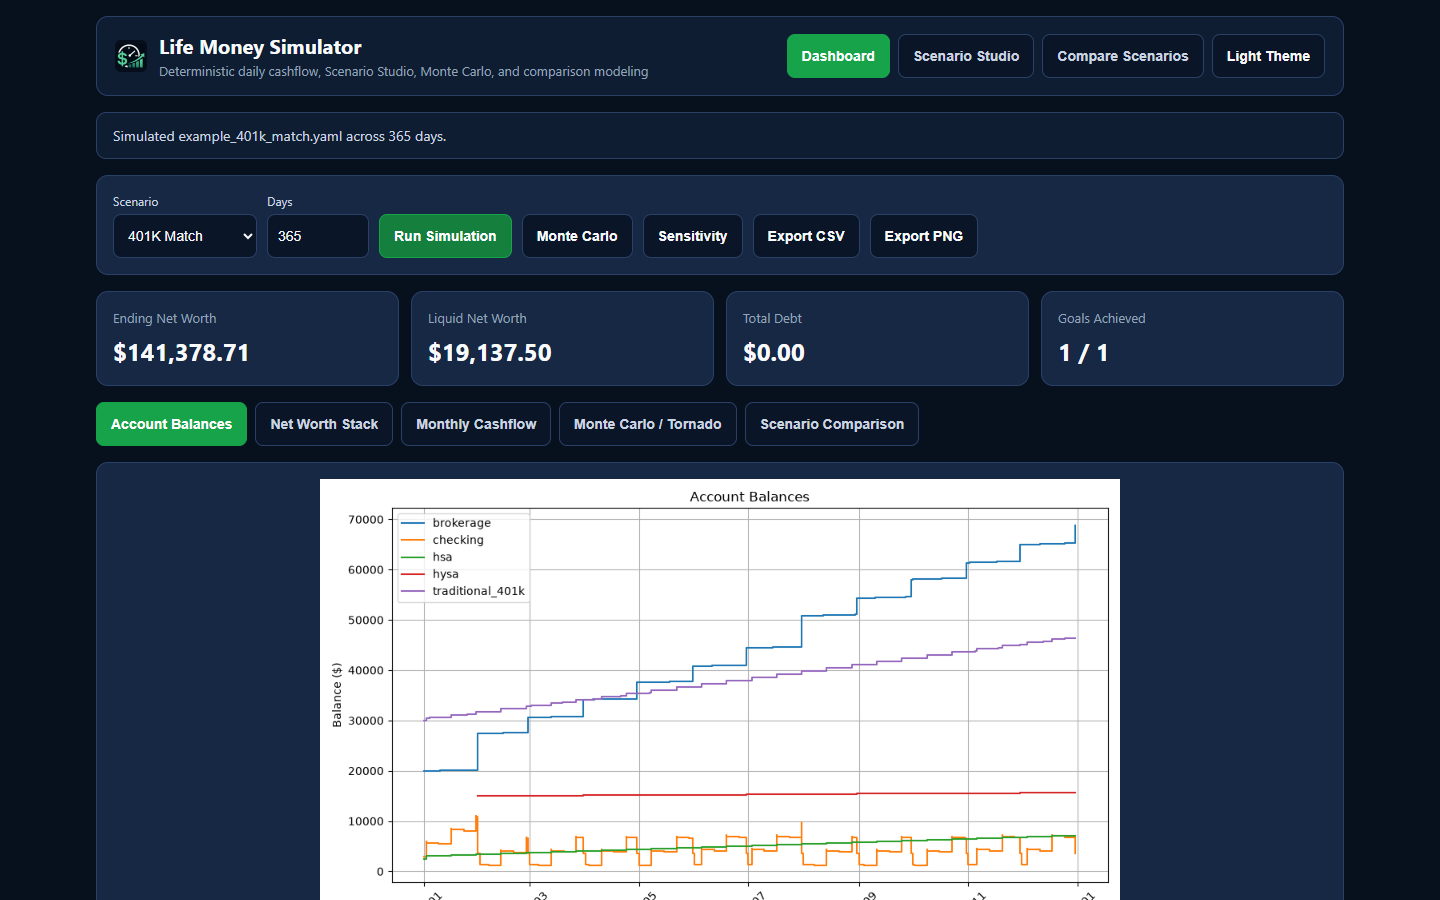
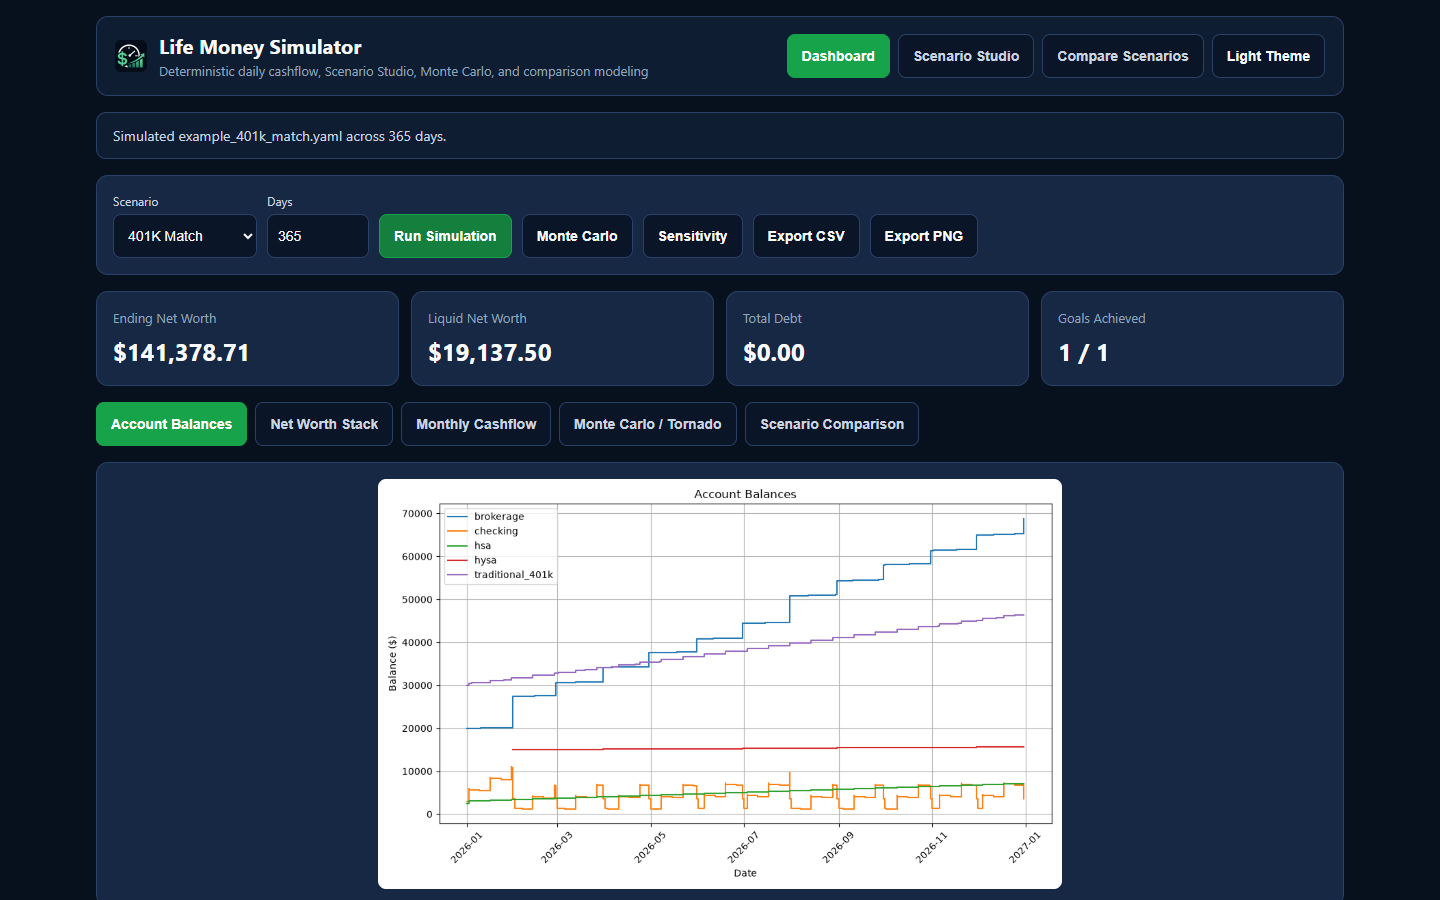
chore: trailing safety section, updated screenshots, and reliable CI screenshot sync

Changed region(s): [[0.2188, 0.5289, 0.7812, 1.0]]

diff --git a/lifesim/gui_static/styles.css b/lifesim/gui_static/styles.css
@@ -191,8 +191,10 @@ select:focus-visible {
 
 .chart-img {
   display: block;
-  width: 100%;
-  max-height: 480px;
+  width: auto;
+  max-width: 100%;
+  max-height: 410px;
+  margin: 0 auto;
   object-fit: contain;
   border-radius: 8px;
 }

diff --git a/scripts/capture_screenshots.py b/scripts/capture_screenshots.py
@@ -1,0 +1,94 @@
+"""Capture up-to-date screenshots and optional UI evidence for TimeIsMoneySim."""
+
+from __future__ import annotations
+
+import argparse
+from pathlib import Path
+import subprocess
+import sys
+import time
+from typing import Any
+
+from playwright.sync_api import sync_playwright
+
+REPO_DIR = Path(__file__).resolve().parent.parent
+
+
+def _launch_browser(pw: Any) -> Any:
+    """Launch headless Chromium first (Linux/CI), falling back to Edge channel if needed."""
+    try:
+        return pw.chromium.launch(headless=True)
+    except Exception:  # noqa: 10
+        return pw.chromium.launch(channel="msedge", headless=True)
+
+
+def capture_screenshots(out_dir: Path, python_exe: str | None = None) -> None:
+    """Boot headless loopback server and capture main Dashboard and Monte Carlo screenshots."""
+    out_resolved = out_dir.expanduser().resolve()
+    out_resolved.mkdir(parents=True, exist_ok=True)
+    shot_main = out_resolved / "01_main.png"
+    shot_analytics = out_resolved / "02_analytics.png"
+
+    proc = subprocess.Popen(
+        [python_exe or sys.executable, "-m", "lifesim.gui", "--headless-server", "0"],
+        cwd=str(REPO_DIR),
+        stdout=subprocess.PIPE,
+        stderr=subprocess.PIPE,
+        text=True,
+    )
+    try:
+        url = ""
+        deadline = time.monotonic() + 25.0
+        while time.monotonic() < deadline and proc.stdout is not None:
+            line = proc.stdout.readline().strip()
+            if line.startswith("READY "):
+                url = line.split(" ", 1)[1].strip()
+                break
+        if not url:
+            raise RuntimeError("TimeIsMoneySim headless server failed to start.")
+
+        with sync_playwright() as pw:
+            browser = _launch_browser(pw)
+            context = browser.new_context(viewport={"width": 1440, "height": 900})
+            page = context.new_page()
+            page.goto(url, wait_until="networkidle")
+            page.wait_for_selector('#kpiNetWorth:not(:has-text("--"))', timeout=20000)
+
+            page.select_option('[data-testid="scenario.select"]', "example_401k_match.yaml")
+            page.fill('[data-testid="scenario.days_input"]', "365")
+            page.click('[data-testid="sim.run_btn"]')
+            page.wait_for_function(
+                "() => { const txt = document.getElementById('statusBanner')?.textContent || ''; return txt.length > 0 && !txt.includes('Running'); }",
+                timeout=20000,
+            )
+            page.wait_for_timeout(400)
+            page.screenshot(path=str(shot_main), full_page=False)
+
+            page.click('[data-testid="sim.montecarlo_btn"]')
+            page.wait_for_function(
+                "() => (document.getElementById('statusBanner')?.textContent || '').includes('Completed 100 Monte Carlo')",
+                timeout=30000,
+            )
+            page.wait_for_timeout(400)
+            page.screenshot(path=str(shot_analytics), full_page=False)
+            browser.close()
+    finally:
+        proc.terminate()
+        try:
+            proc.wait(timeout=5)
+        except subprocess.TimeoutExpired:
+            proc.kill()
+
+
+def main() -> int:
+    parser = argparse.ArgumentParser(description="Capture TimeIsMoneySim desktop screenshots.")
+    parser.add_argument("--out-dir", type=Path, default=REPO_DIR / "assets" / "screenshots")
+    parser.add_argument("--py", default=None, help="Optional Python interpreter to launch GUI backend")
+    args = parser.parse_args()
+    capture_screenshots(args.out_dir, python_exe=args.py)
+    sys.stdout.write(f"Saved screenshots into {args.out_dir}\n")
+    return 0
+
+
+if __name__ == "__main__":
+    raise SystemExit(main())

diff --git a/lifesim/gui.py b/lifesim/gui.py
@@ -68,13 +68,13 @@ def find_chromium_browser() -> str | None:
                 return candidate
 
     posix_candidates = [
-        "/Applications/Google Chrome.app/Contents/MacOS/Google Chrome",
-        "/Applications/Microsoft Edge.app/Contents/MacOS/Microsoft Edge",
-        "msedge",
-        "microsoft-edge",
         "google-chrome",
         "chromium",
         "chromium-browser",
+        "/Applications/Google Chrome.app/Contents/MacOS/Google Chrome",
+        "msedge",
+        "microsoft-edge",
+        "/Applications/Microsoft Edge.app/Contents/MacOS/Microsoft Edge",
     ]
     for candidate in posix_candidates:
         if os.path.sep in candidate:
@@ -508,6 +508,10 @@ def capture_screenshot(base_url: str, output_png: Path) -> None:
                 "--headless=new",
                 "--disable-gpu",
                 "--no-sandbox",
+                "--disable-dev-shm-usage",
+                "--disable-background-networking",
+                "--no-first-run",
+                "--no-default-browser-check",
                 "--hide-scrollbars",
                 "--virtual-time-budget=2500",
                 f"--user-data-dir={profile_dir}",

diff --git a/README.md b/README.md
@@ -25,7 +25,7 @@ Browse release notes on [All Releases](https://github.com/DontKwo/time-is-money-
 ## Screenshots
 
 <p align="center">
-  <img src="assets/screenshots/01_main.png" alt="Life Money Simulator Scenario Studio" width="760" />
+  <img src="assets/screenshots/01_main.png" alt="Life Money Simulator Dashboard" width="760" />
 </p>
 
 <p align="center">
@@ -38,27 +38,18 @@ Browse release notes on [All Releases](https://github.com/DontKwo/time-is-money-
 
 1. **Download the app** from the table above for Windows, macOS, or Linux.
 2. **Open the desktop window** following [Desktop Installation Guide](docs/INSTALLATION.md) if prompted by your operating system.
-3. **Choose a scenario template** (MVP, 401k Match, Debt Payoff, or FIRE Lifecycle) and set your projection horizon in days.
-4. **Click Run Simulation, Monte Carlo, or Sensitivity** to inspect balance curves, cashflows, fan charts, and downloadable transaction ledgers.
+3. **Run & Explore on the Dashboard**: Pick a scenario template (`MVP`, `401k Match`, `Debt Payoff`, or `FIRE Lifecycle`) or click **Monte Carlo** and **Sensitivity**, then export CSV ledgers or chart PNGs anytime.
+4. **Customize in Scenario Studio & Compare**: Build custom accounts, paychecks, flows, and life events visually in **Scenario Studio**, or benchmark two strategies side by side under **Compare Scenarios**.
 
 ---
 
 ## Key Features
 
 - **Daily Calendar Accuracy**: Processes paychecks, taxes, credit cycles, loans, and compound returns day by day.
-- **Deterministic Reproducibility**: Isolated seed streams let you toggle individual cashflows cleanly without random noise shifts.
+- **Visual Scenario Studio & Side-by-Side Comparison**: Edit financial scenarios without hand-writing YAML and compare multiple strategies against deterministic seeds.
 - **Monte Carlo & Sensitivity**: Visualize probability bands across market paths and identify high-leverage savings choices.
-- **Offline CSV Exports**: Export transaction ledgers locally for spreadsheet analysis.
+- **Offline CSV & Chart PNG Exports**: Export transaction ledgers and charts locally with complete offline privacy.
 - **Open Source**: Transparent simulation code under the [MIT License](LICENSE).
-
----
-
-## Safety & Disclaimers
-
-- **Financial Disclaimer**: Life Money Simulator is an educational personal finance model. It does not provide financial, investment, tax, legal, or retirement advice. Verify outputs independently before making financial decisions.
-- **Official `main` Releases Only**: Only download executables from [DontKwo/time-is-money-sim](https://github.com/DontKwo/time-is-money-sim/releases/latest) (`main` branch). Never download forked builds unless you have verified they contain no malware; only official `main` releases are maintained by the author, and I make no promises.
-- **OS Security Warnings**: Windows SmartScreen and macOS Gatekeeper may flag unsigned open-source builds as unrecognized or unsafe. Bypassing prompts is strictly at your own discretion; see [Desktop Installation Guide](docs/INSTALLATION.md).
-- **AS-IS Disclaimer**: Provided "AS IS" under the [MIT License](LICENSE) with zero warranty or liability. Use at your own risk.
 
 ---
 
@@ -74,7 +65,7 @@ Browse release notes on [All Releases](https://github.com/DontKwo/time-is-money-
 - [Developer Guide](docs/DEVELOPMENT.md)
 - [Developer uv Installation](docs/UV_INSTALLATION.md)
 
-### AI, Mathematical Proof & Technical Documentation
+### AI & Technical Documentation
 - [AI Agent Rules](AGENTS.md)
 - [System Architecture](docs/ARCHITECTURE.md)
 
@@ -82,3 +73,12 @@ Browse release notes on [All Releases](https://github.com/DontKwo/time-is-money-
 - [Security Policy](SECURITY.md)
 - [Third-Party Notices](THIRD_PARTY_NOTICES.md)
 - [MIT License](LICENSE)
+
+---
+
+## Safety & Disclaimers
+
+- **Financial Disclaimer**: Life Money Simulator is an educational personal finance model. It does not provide financial, investment, tax, legal, or retirement advice. Verify outputs independently before making financial decisions.
+- **Official `main` Releases Only**: Only download executables from [DontKwo/time-is-money-sim](https://github.com/DontKwo/time-is-money-sim/releases/latest) (`main` branch). Never download forked builds unless you have verified they contain no malware; only official `main` releases are maintained by the author, and I make no promises.
+- **OS Security Warnings**: Windows SmartScreen and macOS Gatekeeper may flag unsigned open-source builds as unrecognized or unsafe. Bypassing prompts is strictly at your own discretion; see [Desktop Installation Guide](docs/INSTALLATION.md).
+- **AS-IS Disclaimer**: Provided "AS IS" under the [MIT License](LICENSE) with zero warranty or liability. Use at your own risk.

diff --git a/docs/USER_GUIDE.md b/docs/USER_GUIDE.md
@@ -5,17 +5,13 @@ Life Money Simulator models daily cashflows, retirement accounts, credit cards, 
 ## Desktop Application Workflow
 
 1. Launch **TimeIsMoneySim** (see [Desktop Installation Guide](INSTALLATION.md) if your operating system prompts for verification).
-2. **Choose a Scenario**: Pick a built-in template (such as `example_mvp.yaml`, `example_401k_match.yaml`, `example_debt_payoff.yaml`, or `example_fire_lifecycle.yaml`) from the **Scenario Studio** selector.
-3. **Adjust Horizon & Inflation**: Override the number of days or inflation rate right in the top bar without editing YAML files manually.
-4. **Run Simulation, Monte Carlo, or Sensitivity**:
-   - **Run Simulation**: Calculates ending net worth, liquid assets, total debt, goal attainment, account balance curves, and monthly cashflow charts.
-   - **Monte Carlo**: Runs stochastic market trials and plots p5 through p95 fan bands.
-   - **Sensitivity Sweep**: Measures net worth upside and downside across key financial levers on a tornado chart.
-5. **Export Data**: Download the simulated transaction ledger as CSV for external inspection.
-
-## Financial Disclaimer
-
-Life Money Simulator is an educational modeling tool only. Verify outputs independently before making personal financial or tax decisions.
+2. **Dashboard Tab**: Pick a built-in template (`MVP`, `401k Match`, `Debt Payoff`, or `FIRE Lifecycle`), set the projection **Days** horizon, and click:
+   - **Run Simulation**: Calculates ending net worth, liquid assets, total debt, goal attainment, account balance curves, net worth stacked charts, and monthly cashflow charts.
+   - **Monte Carlo**: Runs stochastic market trials and plots p5 through p95 fan bands under **Monte Carlo / Tornado**.
+   - **Sensitivity**: Measures net worth upside and downside across financial parameters on a tornado chart.
+   - **Export CSV / Export PNG**: Downloads the simulated daily transaction ledger or active chart image locally.
+3. **Scenario Studio Tab**: Visually edit accounts, paychecks, recurring cashflows, life events, and policies, load or import `.yaml` templates, download edited `.yaml` configs, and run custom projections directly.
+4. **Compare Scenarios Tab**: Benchmark a baseline strategy against an alternative scenario side by side.
 
 ## Related Documentation
 
@@ -26,3 +22,7 @@ Life Money Simulator is an educational modeling tool only. Verify outputs indepe
 - [System Architecture](ARCHITECTURE.md)
 - [Developer Guide](DEVELOPMENT.md)
 - [Security Policy](../SECURITY.md)
+
+## Financial Disclaimer
+
+Life Money Simulator is an educational modeling tool only. Verify outputs independently before making personal financial or tax decisions.

diff --git a/docs/INSTALLATION.md b/docs/INSTALLATION.md
@@ -2,12 +2,6 @@
 
 Install and run Life Money Simulator without Python or command-line tools.
 
-## Safety & Authenticity Warning
-
-- **Official `main` Releases Only**: Download Life Money Simulator exclusively from [DontKwo/time-is-money-sim Releases](https://github.com/DontKwo/time-is-money-sim/releases/latest).
-- **Fork Warning**: Never download builds from forked repositories unless you have verified the source code yourself and know they do not contain malware. Only official `main` releases are maintained by the author, and I make no promises.
-- **Bypassing Security Prompts**: Because independent open-source executables do not carry paid commercial signing certificates, Windows and macOS will warn that the app is unrecognized or potentially unsafe. Bypassing these warnings is strictly at your own discretion, and the software is provided "AS IS" with zero liability.
-
 ---
 
 ## Platform Installation Instructions
@@ -35,6 +29,14 @@ Install and run Life Money Simulator without Python or command-line tools.
 1. Download `TimeIsMoneySim-Linux.tar.gz` from [Latest Releases](https://github.com/DontKwo/time-is-money-sim/releases/latest).
 2. Extract the archive (`tar -xzf TimeIsMoneySim-Linux.tar.gz`).
 3. Ensure executable permissions (`chmod +x TimeIsMoneySim-Linux`) and launch the binary.
+
+---
+
+## Safety & Authenticity Warning
+
+- **Official `main` Releases Only**: Download Life Money Simulator exclusively from [DontKwo/time-is-money-sim Releases](https://github.com/DontKwo/time-is-money-sim/releases/latest).
+- **Fork Warning**: Never download builds from forked repositories unless you have verified the source code yourself and know they do not contain malware. Only official `main` releases are maintained by the author, and I make no promises.
+- **Bypassing Security Prompts**: Because independent open-source executables do not carry paid commercial signing certificates, Windows and macOS will warn that the app is unrecognized or potentially unsafe. Bypassing these warnings is strictly at your own discretion, and the software is provided "AS IS" with zero liability.
 
 ---
 
